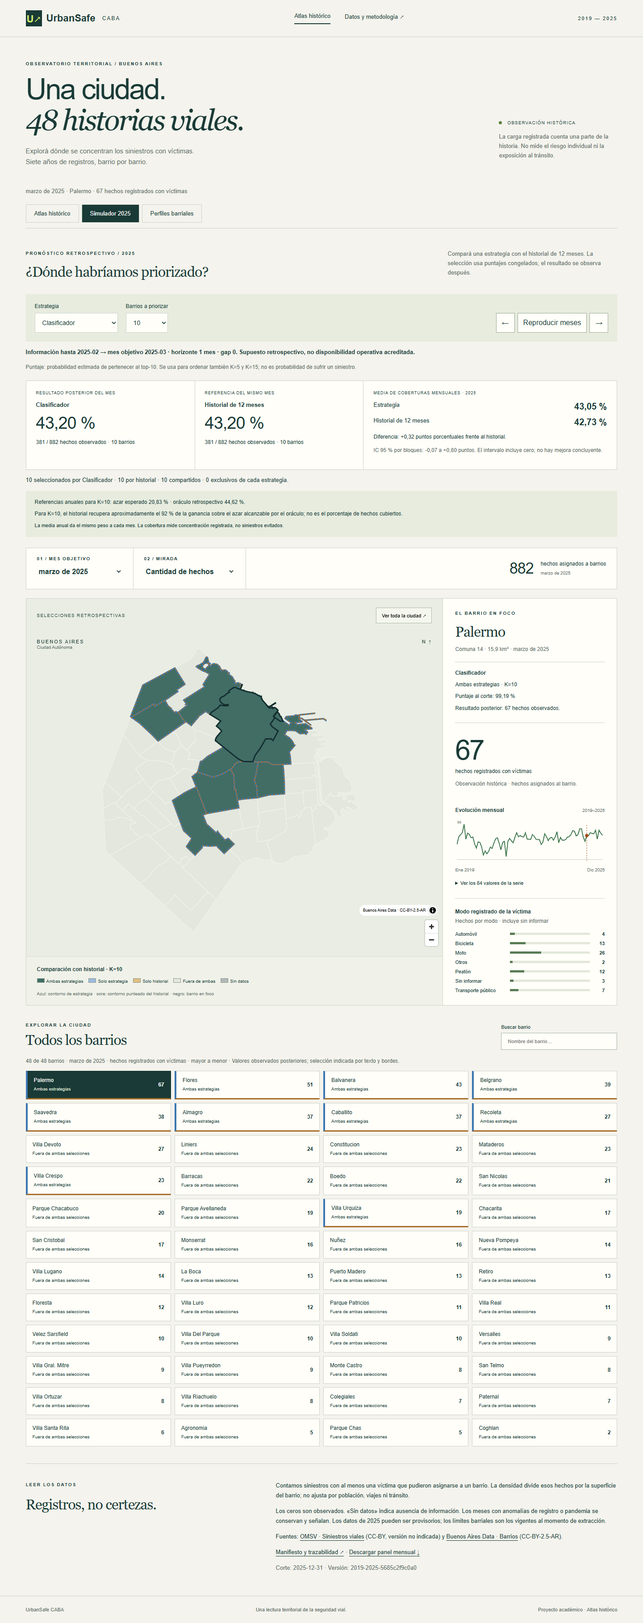
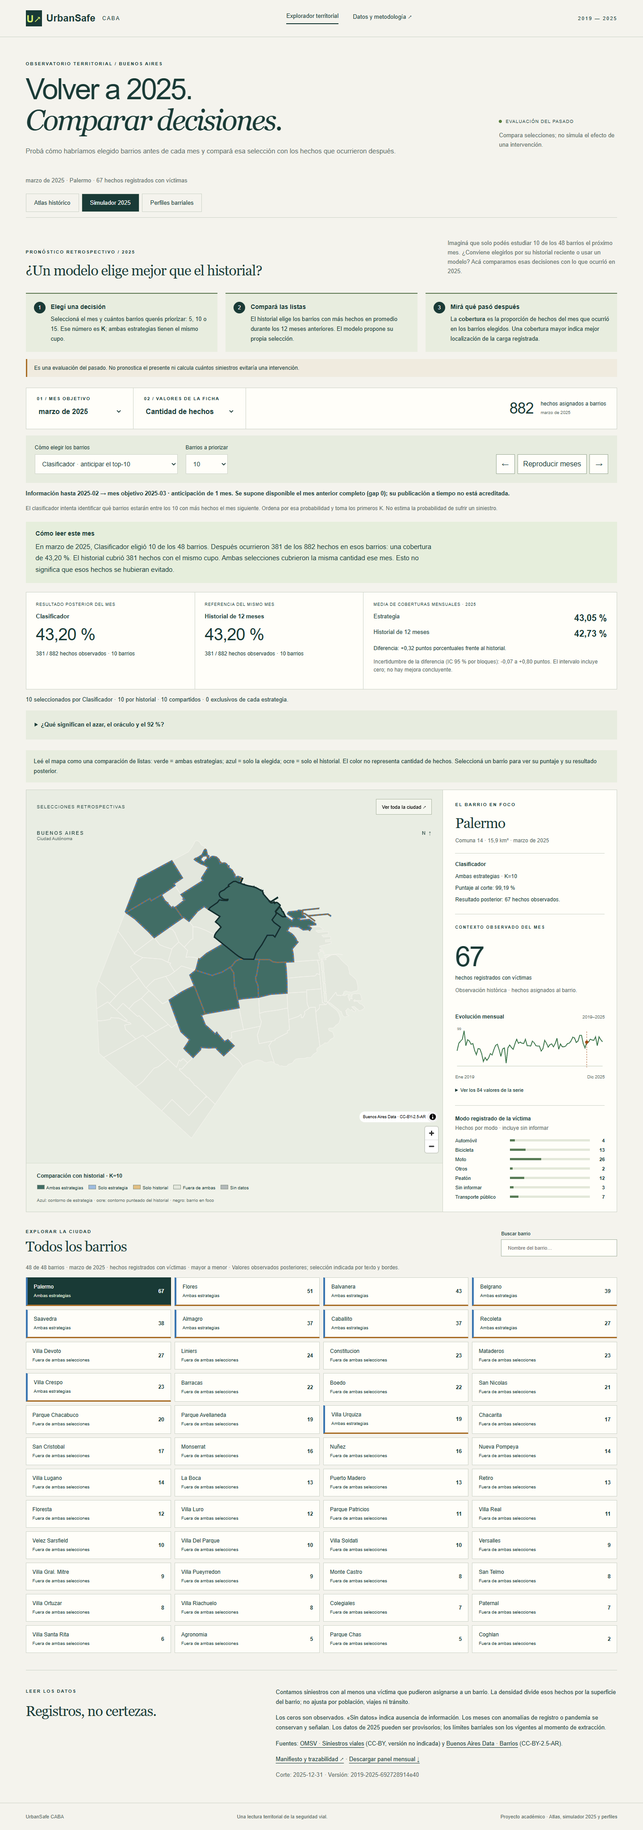
Web: revisión pedagógica del simulador y los perfiles
- Simulador: pregunta guía, tres pasos de lectura (K, estrategias,
  cobertura), mes objetivo antes de los resultados, lectura mensual
  en palabras y azar/oráculo/92 % en un desplegable.
- Perfiles: pregunta guía, tarjetas con rasgos del Paso 09
  (clustering_report §5) y preguntas de exploración; el color es
  semejanza histórica y los conteos de la ficha son del mes elegido.
- Encabezado y guía de lectura del mapa propios de cada vista.
- Procedencia: hashes de insumos de texto con CRLF normalizado a LF
  (regla en manifest.definiciones.hash_insumos). Datos idénticos;
  versión derivada 2019-2025-692728914e40.
- E2E 40/40, pytest 20, audit:dist aprobado. Capturas actualizadas,
  docs/web_pedagogy_review.md y .wrangler/ ignorado.

diff --git a/web/src/lib/explorer-features.ts b/web/src/lib/explorer-features.ts
@@ -10,7 +10,15 @@ const labels:Record<Strategy,string>={clasificador:'Clasificador',regresion:'Reg
 // Formato fijo «43,05 %» (espacio no separable), independiente de la versión de ICU del navegador.
 const percent=(n:number)=>`${new Intl.NumberFormat('es-AR',{minimumFractionDigits:2,maximumFractionDigits:2}).format(n*100)} %`;
 const points=(n:number)=>new Intl.NumberFormat('es-AR',{minimumFractionDigits:2,maximumFractionDigits:2,signDisplay:'exceptZero'}).format(n*100);
+const monthLabel=(m:string)=>new Intl.DateTimeFormat('es-AR',{month:'long',year:'numeric',timeZone:'UTC'}).format(new Date(`${m}-01T12:00:00Z`));
 const number=(n:number)=>new Intl.NumberFormat('es-AR',{maximumFractionDigits:2}).format(n);
+// Descripciones cualitativas del Paso 09, docs/clustering_report.md §5.
+const profileDescriptions = {
+ borde: {title:'Borde · General Paz y autopistas',color:'#bd884c',meaning:'En conjunto, estos barrios tienen mayor presencia de vías rápidas, automóvil y moto en los hechos registrados, y menor presencia de peatones y bicicletas que el interior.',question:'Pregunta para explorar: ¿qué papel tienen las vías rápidas y sus accesos en los hechos del barrio?'},
+ interior: {title:'Interior',color:'#84a992',meaning:'Es el conjunto más amplio y heterogéneo. Las vías rápidas tienen menor peso en sus registros. Dentro de él hay diferencias de composición, pero no una frontera clara entre dos tipos.',question:'Pregunta para explorar: ¿qué modos y tipos de vía aparecen en los registros de cada barrio?'},
+ residencial: {title:'Interior residencial',color:'#a4c7ab',meaning:'Dentro del interior, este subgrupo presenta relativamente más moto y bicicleta que el central-denso. El nombre resume su perfil; no es una clasificación oficial del uso del suelo.',question:'Pregunta para explorar: ¿dónde se concentran los hechos que involucran moto y bicicleta?'},
+ central: {title:'Interior central-denso',color:'#6d8fb8',meaning:'Dentro del interior, este subgrupo presenta relativamente más peatones y transporte público que el residencial. No implica que cada barrio tenga el mismo patrón.',question:'Pregunta para explorar: ¿cómo se distribuyen los hechos vinculados a peatones y transporte público?'}
+};
 export function parseFeatures(q:URLSearchParams):Pick<ExplorerState,'view'|'strategy'|'k'|'level'> {
  const s=q.get('estrategia')||'';
  return {view:q.get('vista')==='simulador'?'simulador':q.get('vista')==='perfiles'?'perfiles':'atlas',strategy:Object.hasOwn(labels,s)?s as Strategy:'clasificador',k:[5,10,15].includes(Number(q.get('k')))?Number(q.get('k')):10,level:q.get('nivel')==='3'?3:2};
@@ -51,13 +59,30 @@ export function createFeatures(forecasts:Forecast[],profiles:Profile[],coverage:
  function render(){const s=getState(),sim=s.view==='simulador',profile=s.view==='perfiles';$('simulation').hidden=!sim;$('profiles-panel').hidden=!profile;$('feature-detail').hidden=s.view==='atlas';document.querySelectorAll<HTMLButtonElement>('[data-view]').forEach(b=>b.setAttribute('aria-pressed',String(b.dataset.view===s.view)));$<HTMLSelectElement>('strategy').value=s.strategy;$<HTMLSelectElement>('k').value=String(s.k);$<HTMLSelectElement>('profile-level').value=String(s.level);
  // En el simulador el mes elegido es el objetivo del pronóstico; el observable se muestra en el corte.
  $('month-label').textContent=sim?'01 / MES OBJETIVO':'01 / PERÍODO';$('month').setAttribute('aria-label',sim?'Mes objetivo':'Mes observado');
+ $('sim-month-slot').hidden=!sim;
+ const controls=$('controls');if(sim){$('sim-month-slot').append(controls);}else{$('atlas-controls-slot').after(controls);}
+ $('metric-label').textContent=s.view==='atlas'?'02 / MIRADA':'02 / VALORES DE LA FICHA';
+ $('observed-caption').hidden=s.view==='atlas';$('map-reading').hidden=s.view==='atlas';
+ $('map-reading').textContent=sim?'Leé el mapa como una comparación de listas: verde = ambas estrategias; azul = solo la elegida; ocre = solo el historial. El color no representa cantidad de hechos. Seleccioná un barrio para ver su puntaje y su resultado posterior.':'Leé el mapa como grupos de semejanza. Un color identifica un perfil histórico; no significa mayor o menor peligrosidad. La cifra de la ficha pertenece al mes elegido, no es el criterio de agrupación.';
+ $('view-title').innerHTML=sim?'Volver a 2025.<br/><em>Comparar decisiones.</em>':profile?'Barrios diferentes.<br/><em>Patrones en común.</em>':'Una ciudad.<br/><em>48 historias viales.</em>';
+ $('view-lead').textContent=sim?'Probá cómo habríamos elegido barrios antes de cada mes y compará esa selección con los hechos que ocurrieron después.':profile?'Explorá qué rasgos de los siniestros comparten los barrios, más allá de cuántos hechos registran.':'Explorá dónde se concentran los siniestros con víctimas. Siete años de registros, barrio por barrio.';
+ $('view-context').textContent=sim?'EVALUACIÓN DEL PASADO':profile?'SEMEJANZA HISTÓRICA':'OBSERVACIÓN HISTÓRICA';
+ $('view-context-description').textContent=sim?'Compara selecciones; no simula el efecto de una intervención.':profile?'Los grupos describen la composición de los registros, no niveles de riesgo.':'La carga registrada cuenta una parte de la historia. No mide el riesgo individual ni la exposición al tránsito.';
  $('map-heading').textContent=sim?'SELECCIONES RETROSPECTIVAS':profile?'PERFILES HISTÓRICOS':'CONCENTRACIÓN TERRITORIAL';
  $('legend-note').textContent=sim?'Azul: contorno de estrategia · ocre: contorno punteado del historial · negro: barrio en foco':profile?'Grupos históricos fijos · contorno negro: barrio en foco':'Escala fija para todos los meses · contorno negro: barrio seleccionado';
- if(profile){$('profile-summary').textContent=s.level===2?`${count(p=>p.grupo===0)} barrios de interior · ${count(p=>p.grupo===1)} barrios de borde.`:`${count(p=>p.k3===0)} residenciales · ${count(p=>p.k3===2)} centrales-densos · ${count(p=>p.k3===1)} de borde.`;$('profile-warning').textContent=s.level===2?'Solución principal: K-Means de dos grupos. El perfil de borde es el más estable.':'Subdivisión exploratoria del interior: separación débil (silhouette 0,195). No representa tres niveles de riesgo.';$('feature-detail').textContent=`Perfil histórico: ${profileLabel(s.id)}. ${s.level===3?'Subdivisión exploratoria; separación interior débil.':'Agrupamiento principal de dos grupos.'}`;}
- if(sim){const available=months.includes(s.month),r=prediction(s.id);$('simulation-results').hidden=!available;for(const id of ['previous-month','next-month','play-months'])$<HTMLButtonElement>(id).disabled=!available;$<HTMLButtonElement>('previous-month').disabled=!available||s.month==='2025-01';$<HTMLButtonElement>('next-month').disabled=!available||s.month==='2025-12';$('cutoff').textContent=r?`Información hasta ${r.mes_observable} → mes objetivo ${s.month} · horizonte ${r.horizonte_meses} mes · gap ${r.gap_meses}. Supuesto retrospectivo, no disponibilidad operativa acreditada.`:'Sin evaluación retrospectiva para este período. Elegí un mes de 2025.';
- $('strategy-explanation').textContent=s.strategy==='oraculo'?'Oráculo: referencia retrospectiva que conoce los hechos posteriores. No es un pronóstico utilizable al corte.':s.strategy==='clasificador'?'Puntaje: probabilidad estimada de pertenecer al top-10. Se usa para ordenar también K=5 y K=15; no es probabilidad de sufrir un siniestro.':'Puntaje: conteo estimado de hechos. Las selecciones usan el desempate reproducible del proyecto.';
+ if(profile){
+ $('profile-summary').textContent=s.level===2?`${count(p=>p.grupo===0)} barrios de interior · ${count(p=>p.grupo===1)} barrios de borde.`:`${count(p=>p.k3===0)} residenciales · ${count(p=>p.k3===2)} centrales-densos · ${count(p=>p.k3===1)} de borde.`;
+ const cards=s.level===2?[['interior',count(p=>p.grupo===0)],['borde',count(p=>p.grupo===1)]]:[['residencial',count(p=>p.k3===0)],['central',count(p=>p.k3===2)],['borde',count(p=>p.k3===1)]];
+ $('profile-cards').innerHTML=cards.map(([key,n])=>{const d=profileDescriptions[key as keyof typeof profileDescriptions];return `<article class="profile-card" style="--profile-color:${d.color}"><strong>${n} barrios · ${s.level===3&&key!=='borde'?'subgrupo exploratorio':'grupo principal'}</strong><h3>${d.title}</h3><p>${d.meaning}</p><p class="question">${d.question}</p></article>`;}).join('');
+ $('profile-warning').textContent=s.level===2?'Qué sabemos con más confianza: aparece un perfil de borde asociado a vías rápidas. La pertenencia exacta de algunos barrios puede variar al repetir el análisis; no es una frontera rígida.':'Lectura exploratoria: la separación entre los dos subgrupos del interior es débil. Sus rasgos se superponen; sirven para formular preguntas, no para asignar políticas automáticamente.';
+ const p=groups.get(s.id)!;const d=p.grupo===1?profileDescriptions.borde:s.level===2?profileDescriptions.interior:p.k3===0?profileDescriptions.residencial:profileDescriptions.central;
+ $('feature-detail').innerHTML=`<strong>Perfil histórico: ${profileLabel(s.id)}</strong><p class="profile-meaning">${d.meaning}</p><p>${d.question}</p><small>Rasgos del grupo, no una explicación causal de este barrio. ${s.level===3?'Subdivisión exploratoria; separación interior débil.':''}</small>`;
+ }
+
+ if(sim){const available=months.includes(s.month),r=prediction(s.id);$('simulation-results').hidden=!available;for(const id of ['previous-month','next-month','play-months'])$<HTMLButtonElement>(id).disabled=!available;$<HTMLButtonElement>('previous-month').disabled=!available||s.month==='2025-01';$<HTMLButtonElement>('next-month').disabled=!available||s.month==='2025-12';$('cutoff').textContent=r?`Información hasta ${r.mes_observable} → mes objetivo ${s.month} · anticipación de ${r.horizonte_meses} mes. Se supone disponible el mes anterior completo (gap ${r.gap_meses}); su publicación a tiempo no está acreditada.`:'Sin evaluación retrospectiva para este período. Elegí un mes de 2025.';
+ $('strategy-explanation').textContent=s.strategy==='oraculo'?'Oráculo: referencia retrospectiva que conoce los hechos posteriores. No es un pronóstico utilizable al corte.':s.strategy==='clasificador'?'El clasificador intenta identificar qué barrios estarán entre los 10 con más hechos el mes siguiente. Ordena por esa probabilidad y toma los primeros K. No estima la probabilidad de sufrir un siniestro.':s.strategy==='regresion'?'La regresión estima cuántos hechos habrá en cada barrio el mes siguiente. Se eligen los K con mayor conteo estimado.':s.strategy==='historial_media12'?'El historial calcula el promedio de hechos de los 12 meses anteriores y elige los K barrios con mayor promedio. Es la referencia sencilla contra la que comparamos.':'Esta estrategia repite la selección de los K barrios con más hechos en el último mes observado. Permite comparar una memoria corta con el promedio de 12 meses.';
  if(r){const score=s.strategy==='oraculo'?r.resultado_posterior.puntaje_oraculo:r.puntajes[s.strategy];$('feature-detail').innerHTML=`<strong>${labels[s.strategy]}</strong><p>${category(s.id)} · K=${s.k}</p><p>Puntaje ${s.strategy==='oraculo'?'retrospectivo':'al corte'}: ${s.strategy==='clasificador'?percent(score):number(score)}</p><p>Resultado posterior: ${r.resultado_posterior.hechos.valor} hechos observados.</p>`;}else $('feature-detail').textContent='Sin pronósticos para este período.';
- if(available){const monthly=(strategy:string)=>coverage.mensual.find(r=>r.mes_objetivo===s.month&&r.estrategia===strategy&&r.K===s.k)!;const a=monthly(s.strategy),b=monthly('historial_media12');const annual=(strategy:string)=>coverage.anual.find(r=>r.estrategia===strategy&&r.K===s.k)!.media_coberturas_mensuales;const delta=annual(s.strategy)-annual('historial_media12');$('strategy-name').textContent=labels[s.strategy];$('monthly-coverage').textContent=percent(a.cobertura);$('monthly-counts').textContent=`${a.hechos_cubiertos} / ${a.hechos_totales} hechos observados · ${s.k} barrios`;$('baseline-coverage').textContent=percent(b.cobertura);$('baseline-counts').textContent=`${b.hechos_cubiertos} / ${b.hechos_totales} hechos observados · ${s.k} barrios`;$('annual-strategy').textContent=percent(annual(s.strategy));$('annual-baseline').textContent=percent(annual('historial_media12'));$('annual-difference').textContent=`Diferencia: ${points(delta)} puntos porcentuales frente al historial.`;const ci=coverage.diferencias_vs_historial.find(r=>r.K===s.k&&r.estrategia===s.strategy);$('annual-ci').textContent=ci?`IC 95 % por bloques: ${points(ci.ic_bloques_inf)} a ${points(ci.ic_bloques_sup)} puntos. ${ci.ic_bloques_inf<=0&&ci.ic_bloques_sup>=0?'El intervalo incluye cero; no hay mejora concluyente.':ci.ic_bloques_sup<0?'El intervalo queda por debajo de cero: cobertura inferior al historial en 2025.':'El intervalo queda por encima de cero en 2025; una sola temporada de prueba.'}`:s.strategy==='historial_media12'?'Misma estrategia de referencia; diferencia cero.':'No hay un intervalo de diferencia publicado para esta estrategia.';const common=a.ids_seleccionados.filter(id=>b.ids_seleccionados.includes(id)).length;$('selection-summary').textContent=`${s.k} seleccionados por ${labels[s.strategy]} · ${s.k} por historial · ${common} compartidos · ${s.k-common} exclusivos de cada estrategia.`;$('random-reference').textContent=`Referencias anuales para K=${s.k}: azar esperado ${percent(annual('azar_esperado'))} · oráculo retrospectivo ${percent(annual('oraculo'))}.`;$('gain-reference').textContent=`Para K=10, el historial recupera aproximadamente el ${Math.round(100*coverage.fraccion_ganancia_sobre_azar_K10)} % de la ganancia sobre el azar alcanzable por el oráculo; no es el porcentaje de hechos cubiertos.`;}
+ if(available){const monthly=(strategy:string)=>coverage.mensual.find(r=>r.mes_objetivo===s.month&&r.estrategia===strategy&&r.K===s.k)!;const a=monthly(s.strategy),b=monthly('historial_media12');const annual=(strategy:string)=>coverage.anual.find(r=>r.estrategia===strategy&&r.K===s.k)!.media_coberturas_mensuales;const delta=annual(s.strategy)-annual('historial_media12');$('strategy-name').textContent=labels[s.strategy];$('monthly-coverage').textContent=percent(a.cobertura);$('monthly-counts').textContent=`${a.hechos_cubiertos} / ${a.hechos_totales} hechos observados · ${s.k} barrios`;$('baseline-coverage').textContent=percent(b.cobertura);$('baseline-counts').textContent=`${b.hechos_cubiertos} / ${b.hechos_totales} hechos observados · ${s.k} barrios`;$('annual-strategy').textContent=percent(annual(s.strategy));$('annual-baseline').textContent=percent(annual('historial_media12'));$('annual-difference').textContent=`Diferencia: ${points(delta)} puntos porcentuales frente al historial.`;const ci=coverage.diferencias_vs_historial.find(r=>r.K===s.k&&r.estrategia===s.strategy);$('annual-ci').textContent=ci?`Incertidumbre de la diferencia (IC 95 % por bloques): ${points(ci.ic_bloques_inf)} a ${points(ci.ic_bloques_sup)} puntos. ${ci.ic_bloques_inf<=0&&ci.ic_bloques_sup>=0?'El intervalo incluye cero; no hay mejora concluyente.':ci.ic_bloques_sup<0?'El intervalo queda por debajo de cero: cobertura inferior al historial en 2025.':'El intervalo queda por encima de cero en 2025; una sola temporada de prueba.'}`:s.strategy==='historial_media12'?'Misma estrategia de referencia; diferencia cero.':'No hay un intervalo de diferencia publicado para esta estrategia.';const common=a.ids_seleccionados.filter(id=>b.ids_seleccionados.includes(id)).length;$('monthly-reading').textContent=`En ${monthLabel(s.month)}, ${labels[s.strategy]} eligió ${s.k} de los 48 barrios. Después ocurrieron ${a.hechos_cubiertos} de los ${a.hechos_totales} hechos en esos barrios: una cobertura de ${percent(a.cobertura)}. El historial cubrió ${b.hechos_cubiertos} hechos con el mismo cupo. ${a.hechos_cubiertos===b.hechos_cubiertos?'Ambas selecciones cubrieron la misma cantidad ese mes.':`La estrategia elegida cubrió ${Math.abs(a.hechos_cubiertos-b.hechos_cubiertos)} hechos ${a.hechos_cubiertos>b.hechos_cubiertos?'más':'menos'} que el historial.`} Esto no significa que esos hechos se hubieran evitado.`;$('selection-summary').textContent=`${s.k} seleccionados por ${labels[s.strategy]} · ${s.k} por historial · ${common} compartidos · ${s.k-common} exclusivos de cada estrategia.`;$('random-reference').textContent=`Referencias anuales para K=${s.k}: azar esperado ${percent(annual('azar_esperado'))} · oráculo retrospectivo ${percent(annual('oraculo'))}.`;$('gain-reference').textContent=`Para K=10, el historial recupera aproximadamente el ${Math.round(100*coverage.fraccion_ganancia_sobre_azar_K10)} % de la ganancia sobre el azar alcanzable por el oráculo; no es el porcentaje de hechos cubiertos.`;}
  }
  if(s.view!=='atlas'){$('legend-title').textContent=sim?`Comparación con historial · K=${s.k}`:s.level===2?'Dos grupos principales':'Tres perfiles · exploratorio';const entries=sim?[['#416d65','Ambas estrategias'],['#9dbbde','Solo estrategia'],['#e1bf83','Solo historial'],['#e3e7dd','Fuera de ambas'],['#b2b9b9','Sin datos']]:s.level===2?[['#84a992','Interior'],['#bd884c','Borde']]:[['#a4c7ab','Interior residencial'],['#6d8fb8','Interior central-denso'],['#bd884c','Borde']];$('legend-items').innerHTML=entries.map(([c,t])=>`<span><i class="swatch" style="background:${c}"></i>${t}</span>`).join('');}
  decorateList();

diff --git a/web/src/styles/atlas.css b/web/src/styles/atlas.css
@@ -2,3 +2,4 @@
 @media(max-width:650px){.controls label{width:100%;border-right:0;border-bottom:1px solid var(--line)}.city-total{border-top:0}.controls select{min-height:36px}}
 [hidden]{display:none!important}.view-switch{display:flex;gap:6px;border-bottom:1px solid var(--line);margin:14px 0 24px;padding-bottom:12px;flex-wrap:wrap}.view-switch button{padding:12px 18px;background:transparent;border:1px solid var(--line);color:var(--ink);font-size:13px}.view-switch button[aria-pressed=true]{background:var(--ink);color:white}.feature-heading{display:flex;align-items:flex-end;justify-content:space-between;gap:24px;padding:10px 0 24px}.feature-heading>p{max-width:380px;font-size:13px;line-height:1.6;color:var(--muted)}.simulation-controls{display:flex;align-items:end;gap:18px;flex-wrap:wrap;padding:20px;background:#e7ecdf}.simulation-controls label,.profile-control{font-size:12px;display:flex;flex-direction:column;gap:8px}.simulation-controls select,.profile-control select{background:#fffef9;padding:9px 12px;border:1px solid var(--line);font-size:14px;min-height:44px}.playback{display:flex;gap:6px;margin-left:auto}.playback button{padding:12px;border:1px solid #9aaa94;background:#fffef9;color:var(--ink);min-height:44px}button:disabled{cursor:default;opacity:.5}.cutoff{font-size:13px;font-weight:700;line-height:1.7}.result-grid{display:grid;grid-template-columns:1fr 1fr 1.5fr;border:1px solid var(--line);background:#fffef9;margin-top:20px}.result-grid article{padding:22px;border-right:1px solid var(--line)}.result-grid article:last-child{border-right:0}.result-grid article>span{font-size:9px;letter-spacing:1px;display:block;margin-bottom:14px}.result-grid h3{font-size:13px;margin-bottom:12px}.result-grid article>strong{font-weight:400;font-size:38px;letter-spacing:-1px}.result-grid p{font-size:12px;line-height:1.5}.annual-row{display:flex;justify-content:space-between;gap:10px;font-size:13px;margin:12px 0}.annual-row strong{font-size:20px}.reference-note{padding:16px 20px;background:#e7ecdf;font-size:12px;line-height:1.6;margin-bottom:24px}.reference-note p{margin:0 0 7px}.reference-note small{font-size:11px}.profile-control{max-width:350px}#profile-summary,#selection-summary{font-size:13px;line-height:1.6}#profiles-panel{padding-bottom:20px}#feature-detail{margin:18px 0;padding:15px 0;border-top:1px solid var(--line);border-bottom:1px solid var(--line);font-size:12px;line-height:1.6}#feature-detail p{margin:7px 0}.badge{display:block;font-size:10px;line-height:1.5;font-weight:400;margin-top:5px}.neighborhood-list button[data-selected-strategy=true]{border-left:4px solid #3b76b1}.neighborhood-list button[data-selected-baseline=true]{border-bottom:3px solid #a86e28}.neighborhood-list button[aria-pressed=true] .badge{color:#e0eddb}.profile-chip{font-size:10px;font-weight:400}#annual-ci{color:#586b65}#simulation #strategy-explanation{margin-bottom:18px}@media(max-width:900px){.result-grid{grid-template-columns:1fr 1fr}.result-grid article:last-child{grid-column:1/-1;border-top:1px solid var(--line)}.playback{margin-left:0}.feature-heading{display:block}}@media(max-width:650px){.result-grid{grid-template-columns:1fr}.result-grid article{border-right:0;border-bottom:1px solid var(--line)}.result-grid article:last-child{border-top:0;border-bottom:0}.simulation-controls{padding:15px}.simulation-controls label{width:100%}.playback{width:100%;justify-content:space-between}.view-switch{gap:5px}.view-switch button{font-size:12px;padding:11px 10px}.feature-heading h2{font-size:28px}}
 .sr-only{position:absolute;width:1px;height:1px;padding:0;margin:-1px;overflow:hidden;clip:rect(0 0 0 0);white-space:nowrap;border:0}
+.reading-steps{list-style:none;padding:0;margin:0 0 16px;display:grid;grid-template-columns:repeat(3,1fr);gap:18px}.reading-steps li{display:flex;gap:12px;padding:18px;background:#e8eddf;border-top:2px solid #607a55}.reading-steps li>span{flex:none;width:26px;height:26px;border-radius:50%;background:#193a36;color:white;display:grid;place-items:center;font-size:12px}.reading-steps h3{font-size:14px;margin:3px 0 9px}.reading-steps p,.profile-purpose p,.profile-reading,.map-reading{font-size:13px;line-height:1.7;margin:0}.scope-note{font-size:12px;line-height:1.7;border-left:3px solid #a86e28;padding:10px 16px;background:#f0ebdf;margin:16px 0 24px}.result-reading{margin-top:20px;background:#e6eedc;padding:18px 22px}.result-reading h3{font-size:14px}.result-reading p{font-size:15px;line-height:1.7;margin:9px 0 0;max-width:900px}.profile-purpose{max-width:900px;margin:0 0 24px}.profile-purpose h3{font-size:15px;margin-bottom:10px}.profile-purpose p+p{margin-top:10px}.profile-cards{display:grid;grid-template-columns:repeat(auto-fit,minmax(230px,1fr));gap:14px;margin:18px 0}.profile-card{padding:20px;border:1px solid var(--line);border-top:5px solid var(--profile-color);background:#fffef9}.profile-card h3{font:24px Georgia,serif;margin-bottom:10px}.profile-card p{font-size:13px;line-height:1.7;margin:8px 0}.profile-card strong{font-size:12px}.profile-card .question{border-top:1px solid var(--line);padding-top:12px;color:#435e4d}.map-reading{margin:0 0 16px;padding:14px 18px;background:#e8eddf}.reference-note summary{font-size:13px;font-weight:700}.reference-note[open] summary{margin-bottom:12px}.reference-note p{margin-bottom:10px}#observed-caption{font-size:9px;margin-top:24px;margin-bottom:0}#sim-month-slot .controls{margin-bottom:14px}#feature-detail .profile-meaning{font-size:13px}.feature-heading h2{max-width:650px}@media(max-width:900px){.reading-steps{grid-template-columns:1fr}.reading-steps li{padding:14px}.feature-heading>p{max-width:none}.profile-cards{grid-template-columns:1fr}}@media(max-width:650px){.result-reading{padding:16px}.result-reading p{font-size:14px}.profile-card{padding:17px}}

diff --git a/web/tests/e2e/simulation.spec.ts b/web/tests/e2e/simulation.spec.ts
@@ -12,6 +12,7 @@ test('coberturas anuales, IC, selecciones y empates de los 12 meses',async({page
  await expect(page.locator('#annual-ci')).toContainText('+0,80');
  await expect(page.locator('#annual-ci')).toContainText('incluye cero');
  await expect(page.locator('#month-label')).toHaveText('01 / MES OBJETIVO');
+ await page.getByText('¿Qué significan el azar, el oráculo y el 92 %?',{exact:true}).click();
  await expect(page.locator('#gain-reference')).toContainText('92 % de la ganancia sobre el azar');
  await expect(page.locator('#cutoff')).toContainText('Información hasta 2024-12');
  await expect(page.locator('#map')).toHaveAttribute('data-ready','true');
@@ -69,7 +70,7 @@ test('perfiles principales y exploratorios, teclado y móvil',async({page},info)
  await expect(page.locator('#profile-summary')).toHaveText('39 barrios de interior · 9 barrios de borde.');
  await expect(page.locator('#neighborhood-list .badge').filter({hasText:'Borde'})).toHaveCount(9);
  await page.getByLabel('Nivel de perfiles').selectOption('3');
- await expect(page.locator('#profile-warning')).toContainText('separación débil');
+ await expect(page.locator('#profile-warning')).toContainText('es débil');
  await expect(page.locator('#neighborhood-list .badge').filter({hasText:'Interior residencial'})).toHaveCount(22);
  await expect(page.locator('#neighborhood-list .badge').filter({hasText:'Interior central-denso'})).toHaveCount(17);
  await page.reload();await expect(page.getByLabel('Nivel de perfiles')).toHaveValue('3');
@@ -80,3 +81,23 @@ test('perfiles principales y exploratorios, teclado y móvil',async({page},info)
  await page.screenshot({path:`test-results/profiles-${info.project.name}.png`,fullPage:true,scale:'css'});
 });
 
+
+ test('las dos vistas explican propósito, lectura y límites',async({page})=>{
+ await page.goto('/?vista=simulador&mes=2025-01&barrio=21&k=10');
+ await expect(page.getByRole('heading',{name:'¿Un modelo elige mejor que el historial?'})).toBeVisible();
+ await expect(page.getByLabel('Cómo usar el simulador')).toContainText('Ese número es K');
+ await expect(page.locator('#monthly-reading')).toContainText('de los 48 barrios');
+ const jan=reference.references.find(r=>r.strategy==='clasificador'&&r.month==='2025-01'&&r.k===10)!;
+ await expect(page.locator('#monthly-reading')).toContainText(`En enero de 2025, Clasificador eligió 10 de los 48 barrios. Después ocurrieron ${jan.captured} de los ${jan.total} hechos`);
+ await expect(page.locator('#monthly-reading')).toContainText('no significa que esos hechos se hubieran evitado');
+ await expect(page.locator('#map-reading')).toContainText('El color no representa cantidad de hechos');
+ await page.getByRole('button',{name:'Perfiles barriales',exact:true}).click();
+ await expect(page.getByRole('heading',{name:'¿Qué barrios comparten un perfil vial?'})).toBeVisible();
+ await expect(page.locator('#profile-cards .profile-card')).toHaveCount(2);
+ const before=await page.locator('#feature-detail').innerText();
+ await page.getByLabel('Mes observado').selectOption('2025-03');
+ await expect(page.locator('#feature-detail')).toHaveText(before,{useInnerText:true});
+ await page.getByLabel('Nivel de perfiles').selectOption('3');
+ await expect(page.locator('#profile-cards .profile-card')).toHaveCount(3);
+ await expect(page.locator('#profiles-panel')).toContainText('cambiar ese mes no vuelve a calcular los perfiles');
+ });

diff --git a/scripts/export_web_data.py b/scripts/export_web_data.py
@@ -51,8 +51,17 @@ def require(condition, message):
         raise ValueError(message)
 
 
+TEXT_SUFFIXES = {'.py', '.md', '.csv', '.json', '.geojson'}
+HASH_RULE = ('SHA-256 de los bytes del insumo; en archivos de texto (.py, .md, .csv, .json, .geojson) '
+             'tras normalizar CRLF a LF, para que la procedencia no dependa de la configuración de Git')
+
+
 def sha(path):
-    return hashlib.sha256(path.read_bytes()).hexdigest()
+    """Hash de procedencia estable entre copias de trabajo con distintos finales de línea."""
+    data = path.read_bytes()
+    if path.suffix.lower() in TEXT_SUFFIXES:
+        data = data.replace(b'\r\n', b'\n')
+    return hashlib.sha256(data).hexdigest()
 
 
 def encode(value):
@@ -258,7 +267,8 @@ def build(root=ROOT):
                 'modelos_congelados': {'regresion': model_r, 'clasificador': model_c},
                 'desempate': {'regla': 'R0', 'semilla': SEED, 'orden_unidades': 'barrio ascendente',
                               'implementacion': 'src.labels.top_k_labels'},
-                'definiciones': {'cobertura_anual': 'Media de 12 coberturas mensuales, igual peso por mes',
+                'definiciones': {'hash_insumos': HASH_RULE,
+                    'cobertura_anual': 'Media de 12 coberturas mensuales, igual peso por mes',
                     'cobertura_agregada': 'Suma de hechos cubiertos / suma de hechos del año; no es el indicador principal',
                     'cero': {'valor': 0, 'estado': 'observado'},
                     'ausencia': {'valor': None, 'estado': 'sin_datos'},

diff --git a/tests/test_web_data_export.py b/tests/test_web_data_export.py
@@ -7,7 +7,7 @@ from pathlib import Path
 import pandas as pd
 import pytest
 
-from scripts.export_web_data import INPUTS, ROOT, build, observation
+from scripts.export_web_data import INPUTS, ROOT, build, observation, sha
 
 
 @pytest.fixture(scope='module')
@@ -81,3 +81,13 @@ def test_inconsistent_inputs_rejected(tmp_path, fault):
     with pytest.raises(ValueError):
         build(tmp_path)
     assert not (tmp_path / 'web').exists()
+
+
+def test_provenance_hash_ignores_line_endings(tmp_path):
+    # Una copia con CRLF (Windows) y otra con LF (clon nuevo) deben registrar la misma procedencia.
+    lf, crlf, binary = tmp_path / 'a.py', tmp_path / 'b.py', tmp_path / 'c.bin'
+    lf.write_bytes(b'x = 1\ny = 2\n')
+    crlf.write_bytes(b'x = 1\r\ny = 2\r\n')
+    binary.write_bytes(b'x = 1\r\ny = 2\r\n')
+    assert sha(lf) == sha(crlf)
+    assert sha(binary) != sha(lf)

diff --git a/docs/web_pedagogy_review.md b/docs/web_pedagogy_review.md
@@ -1,0 +1,50 @@
+# Revisión pedagógica del simulador y los perfiles
+
+Fecha: 2026-11-10. Revisión del contenido, jerarquía visual e interacción de las dos vistas a pedido del responsable. Cambios preparados en la web local; este trabajo no publica una nueva versión.
+
+## Diagnóstico
+
+Las vistas presentaban resultados antes de establecer su pregunta. «Clasificador», «cobertura», «oráculo» y «K» exigían conocimiento previo. El encabezado del atlas seguía describiendo observación histórica en todas las vistas. En perfiles, los nombres de grupos no explicaban sus rasgos ni por qué seguían iguales al cambiar el mes. Los conteos de la ficha podían confundirse con la variable que define el grupo. El selector de mes del simulador aparecía después de sus resultados.
+
+## Cambios
+
+| Vista | Pregunta | Lectura propuesta |
+|---|---|---|
+| Simulador 2025 | ¿Un modelo elige mejor que el historial? | Elegir un mes y un cupo de barrios → comparar las selecciones con el historial → comprobar qué parte de los hechos posteriores ocurrió en esos barrios. |
+| Perfiles barriales | ¿Qué barrios comparten un perfil vial? | Identificar rasgos comunes de los registros históricos → explorar los grupos → formular preguntas de diagnóstico, sin interpretarlos como niveles de peligrosidad. |
+
+El simulador incorpora tres pasos, definiciones en contexto y una explicación dinámica con numerador, denominador, porcentaje y diferencia de hechos frente al historial para el mes elegido. Se explicita que cubrir hechos no significa evitarlos. El mes objetivo precede a los resultados. Los conceptos azar, oráculo y fracción de ganancia del 92 % se explican en un desplegable, sin competir con la primera lectura. Las estrategias tienen nombres acompañados por su tarea y una explicación específica.
+
+Los perfiles incorporan tarjetas con rasgos, preguntas de exploración y una ficha contextual del grupo. Se diferencia el grupo principal de borde de la subdivisión débil del interior. Las descripciones cualitativas provienen de `docs/clustering_report.md`, sección 5, y sus tablas de perfiles; no se inventaron nuevos indicadores. Se aclara que son rasgos del grupo, no afirmaciones causales sobre cada barrio. Los conteos de la ficha quedan rotulados como contexto observado del mes, separado del perfil histórico fijo.
+
+Ambas vistas tienen encabezados propios y una guía para leer el mapa. El mapa del simulador muestra pertenencia a listas; el de perfiles, semejanza histórica. Ninguno usa los colores como escala de peligrosidad. Se conserva el estado compartido, los datos y las selecciones congeladas.
+
+## Verificación
+
+Revisión visual de ambas vistas en escritorio y móvil; capturas en `docs/evidence/web_phase3/`. TypeScript y compilación estática aprobados. Se mantuvieron las pruebas de cifras, selecciones, empates, URL, navegación y accesibilidad. Se añadió un recorrido que comprueba la pregunta guía, la interpretación mensual, las tarjetas y que cambiar el mes no cambia el perfil.
+
+No se hizo una prueba de comprensión con lectores externos. La revisión mejora la explicitación del propósito y la lectura, pero no demuestra por sí sola que todas las audiencias comprendan la herramienta. Una próxima evaluación útil sería pedir a un lector que explique con sus palabras qué significa una cobertura del 43 % y qué representa el color de un barrio en la vista de perfiles.
+
+## Reconciliación de la procedencia
+
+El `--check` estricto detectó una diferencia en `manifest.json`. La causa: el manifiesto publicado registró el hash del exportador **antes** de que Git normalizara sus finales de línea (`.gitattributes` fija `eol=lf`). Después de un checkout, la copia de trabajo quedó con LF y su hash cambió aunque el código fuera el mismo. `docs/source_register.csv` tenía el mismo problema latente: en esta máquina está con CRLF, pero un clon nuevo lo trae con LF, y `--check` fallaría en otra computadora.
+
+Corrección: `scripts/export_web_data.py` calcula el hash de los insumos de texto (`.py`, `.md`, `.csv`, `.json`, `.geojson`) tras normalizar CRLF a LF, y deja esa regla en `manifest.definiciones.hash_insumos`. Una prueba nueva comprueba que la procedencia no cambia con los finales de línea y que los binarios no se alteran.
+
+- Los cinco archivos de datos públicos quedan **idénticos byte a byte**; no cambia ninguna cifra, selección ni geometría.
+- Solo cambia `manifest.json`: los hashes de `panel`, `fuentes` y `exportador`, y con ellos la versión derivada, de `2019-2025-5685c2f9c0a0` (publicada) a `2019-2025-692728914e40`.
+- `--check` aprobado sin discrepancias; pytest de exportador, etiquetas y evaluación: 20 aprobadas.
+
+## Resultado de pruebas
+
+`npm run test:release`: `astro check` sin errores, compilación sin advertencias, `audit:dist` aprobado (JS inicial 27 kB, dentro del límite de 60 kB) y **40/40 E2E** (20 recorridos × escritorio y móvil). Se suman dos recorridos pedagógicos nuevos, uno de los cuales contrasta la lectura del mes con la referencia independiente de Python. La lectura mensual nombra el mes («En enero de 2025») en lugar de la clave `2025-01`.
+
+Las descripciones de los perfiles se contrastaron con la tabla de §5 de `docs/clustering_report.md`:
+
+- **Borde:** vías rápidas 35 % frente a 2 %, auto 19 % frente a 12 %, moto 49 % frente a 44 %; menos peatones (12 % frente a 18 %) y bicicletas (8 % frente a 13 %).
+- **Residencial:** más moto (47 % frente a 41 %) y bicicleta (15 % frente a 11 %) que el central-denso.
+- **Central-denso:** más peatones (20 % frente a 16 %) y transporte público (8,5 % frente a 5,5 %) que el residencial.
+
+El encabezado («modos, tipos de vía y momentos de ocurrencia») coincide con los atributos del agrupamiento, que excluyen volumen y densidad (§2).
+
+La implementación comenzó en Codex y la revisión y reconciliación se hicieron en Claude Code: es una autoauditoría. Estos cambios todavía no están publicados.

diff --git a/docs/web_simulator_validation.md b/docs/web_simulator_validation.md
@@ -50,3 +50,7 @@ Resultados: `astro check` sin errores ni advertencias; `astro build` correcto (p
 ## Limitaciones
 
 Una sola temporada de prueba (2025), datos de 2025 posiblemente provisorios y disponibilidad operativa al cierre de cada mes no acreditada. La cobertura mide concentración registrada, no siniestros evitados ni riesgo ajustado por exposición. Las pruebas usan Chromium (escritorio y móvil emulado); no equivalen a Safari/iOS físico. Las claves de `inputs` del fixture usan separador de rutas de Windows; no afecta las pruebas.
+
+## Revisión pedagógica posterior
+
+Se revisaron el propósito de ambas vistas, la secuencia de lectura, las definiciones en contexto y la separación entre perfil histórico y conteo mensual. Ver [web_pedagogy_review.md](web_pedagogy_review.md). Cambios locales, sin nueva publicación en esta revisión.

diff --git a/docs/web_data_contract.md b/docs/web_data_contract.md
@@ -82,3 +82,5 @@ No quedan discrepancias numéricas o de claves pendientes. Se mantienen las limi
 Versión generada: `2019-2025-5685c2f9c0a0`. Entorno: numpy 2.5.4, pandas 3.1.1, python 3.13.7.
 
 Resultado: **19 pruebas aprobadas** (exportador, etiquetas y evaluación); `--check` aprobado con igualdad byte a byte de los seis archivos. Verificación ejecutada el 2026-11-10.
+
+**Actualización (2026-11-10, revisión pedagógica):** los hashes de insumos de texto se calculan tras normalizar CRLF a LF (`manifest.definiciones.hash_insumos`). Los cinco archivos de datos no cambian; la versión derivada pasa a `2019-2025-692728914e40`. Ver [web_pedagogy_review.md](web_pedagogy_review.md).
